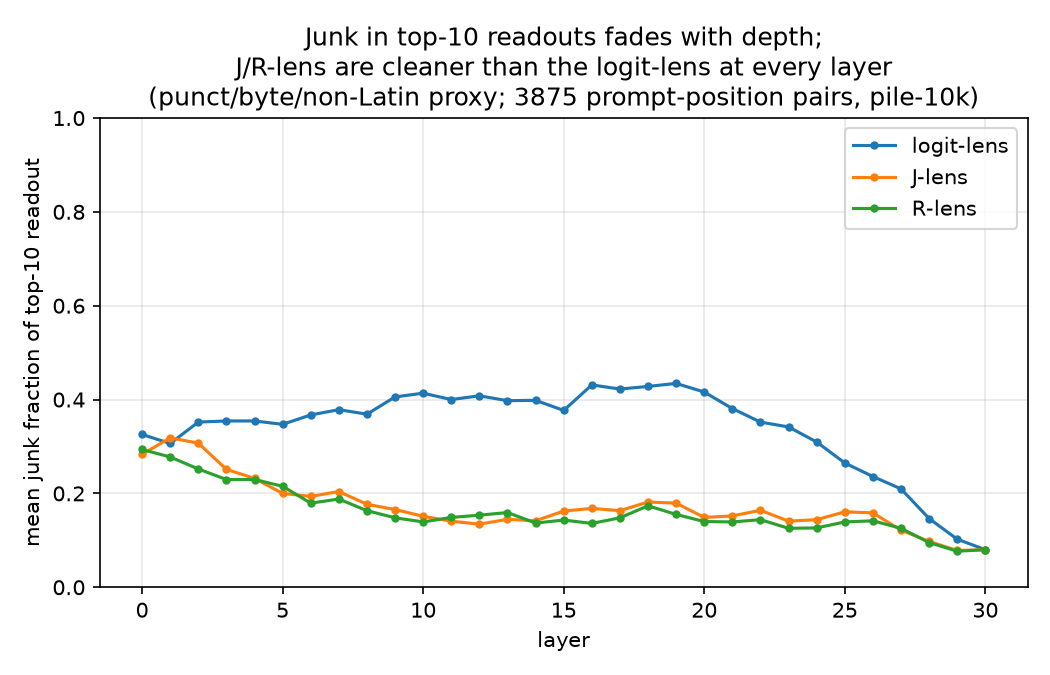
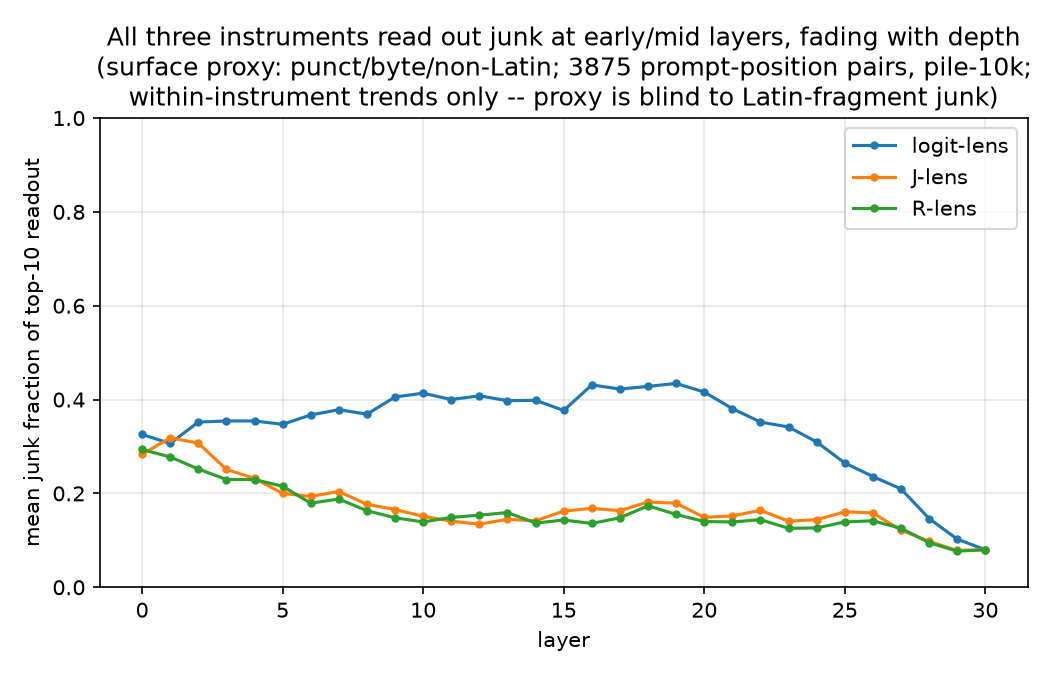
fix: reframe step-2 figures — junk proxy claims within-instrument only; add junk-proxy-free overlap-with-L30 comparison + composition evidence

Changed region(s): [[0.0914, 0.0311, 0.9752, 0.1556]]

diff --git a/src/step2_figures.py b/src/step2_figures.py
@@ -2,6 +2,16 @@
 
 Figure 1 (quantitative): mean junk fraction of the top-10 readout vs layer,
 one line per instrument. Gate expectation: high early, falling with depth.
+WITHIN-instrument depth trends only: the flag proxy undercounts Latin-
+fragment junk (the J-lens's typical kind) and counts non-Latin script
+regardless of context (the logit-lens's typical kind), so it must not be
+used to compare instruments against each other. That comparison happens
+behaviorally via m_t in step 4. See devlog 0.0.2 addendum.
+
+Figure 1b: mean top-10 overlap with the same position's layer-30 readout,
+by depth -- the agreement-style comparison the workspace paper actually
+makes ("the two lenses agree closely in the model's last several layers
+and diverge earlier"). Junk-proxy-free.
 
 Figure 2 (qualitative): for the first two surveyed texts, a layers x
 positions grid of the top-1 readout token, one panel per instrument, cell
@@ -61,9 +71,9 @@ def junk_fraction_figure(data: dict) -> None:
     ax.set_xlabel("layer")
     ax.set_ylabel("mean junk fraction of top-10 readout")
     ax.set_title(
-        f"Junk in top-10 readouts fades with depth;\n"
-        f"J/R-lens are cleaner than the logit-lens at every layer\n"
-        f"(punct/byte/non-Latin proxy; {n_cells} prompt-position pairs, pile-10k)"
+        f"All three instruments read out junk at early/mid layers, fading with depth\n"
+        f"(surface proxy: punct/byte/non-Latin; {n_cells} prompt-position pairs, pile-10k;\n"
+        f"within-instrument trends only -- proxy is blind to Latin-fragment junk)"
     )
     ax.set_ylim(0, 1)
     ax.legend()
@@ -71,6 +81,56 @@ def junk_fraction_figure(data: dict) -> None:
     fig.tight_layout()
     fig.savefig("results/step2_junk_fraction.png", dpi=150)
     print("wrote results/step2_junk_fraction.png")
+
+
+def overlap_figure(data: dict) -> None:
+    """Mean top-10 overlap with the same cell's layer-30 readout, by depth."""
+    ref = {
+        (c["row"], c["pos"]): {t["t"] for t in c["top"]}
+        for c in data["cells"]
+        if c["layer"] == 30 and c["kind"] == "logit"
+    }
+    by = defaultdict(list)
+    for c in data["cells"]:
+        tops = {t["t"] for t in c["top"]}
+        by[(c["kind"], c["layer"])].append(len(tops & ref[(c["row"], c["pos"])]))
+    layers = data["meta"]["layers"]
+    fig, ax = plt.subplots(figsize=(7, 4.5))
+    for kind in data["meta"]["kinds"]:
+        means = [sum(by[(kind, l)]) / len(by[(kind, l)]) for l in layers]
+        ax.plot(layers, means, marker="o", markersize=3, label=KIND_LABELS[kind])
+    ax.set_xlabel("layer")
+    ax.set_ylabel("mean top-10 overlap with layer-30 readout")
+    ax.set_title(
+        "Replicates the paper's comparison: lenses agree closely in the last\n"
+        "layers and diverge earlier (junk-proxy-free agreement metric)"
+    )
+    ax.set_ylim(0, 10)
+    ax.legend()
+    ax.grid(alpha=0.3)
+    fig.tight_layout()
+    fig.savefig("results/step2_overlap_L30.png", dpi=150)
+    print("wrote results/step2_overlap_L30.png")
+
+
+def composition_summary(data: dict) -> None:
+    """Mean count per top-10 of each junk flag, per instrument, in layer
+    bands -> results/step2_junk_composition.json (devlog addendum evidence)."""
+    bands = {"early_0_5": range(0, 6), "mid_12_20": range(12, 21), "late_26_30": range(26, 31)}
+    out = {}
+    for kind in data["meta"]["kinds"]:
+        for bname, band in bands.items():
+            totals = {"punctuation": 0.0, "byte_fragment": 0.0, "non_latin": 0.0}
+            n = 0
+            for c in data["cells"]:
+                if c["kind"] == kind and c["layer"] in band:
+                    n += 1
+                    for f in totals:
+                        totals[f] += sum(t[f] for t in c["top"])
+            out[f"{kind}.{bname}"] = {f: round(v / n, 2) for f, v in totals.items()}
+    with open("results/step2_junk_composition.json", "w") as f:
+        json.dump(out, f, indent=2)
+    print("wrote results/step2_junk_composition.json")
 
 
 def grid_figure(data: dict, row: int) -> None:
@@ -126,6 +186,8 @@ def main() -> None:
     with open(READOUTS_PATH) as f:
         data = json.load(f)
     junk_fraction_figure(data)
+    overlap_figure(data)
+    composition_summary(data)
     for row in data["meta"]["rows"][:2]:
         grid_figure(data, row)
 
